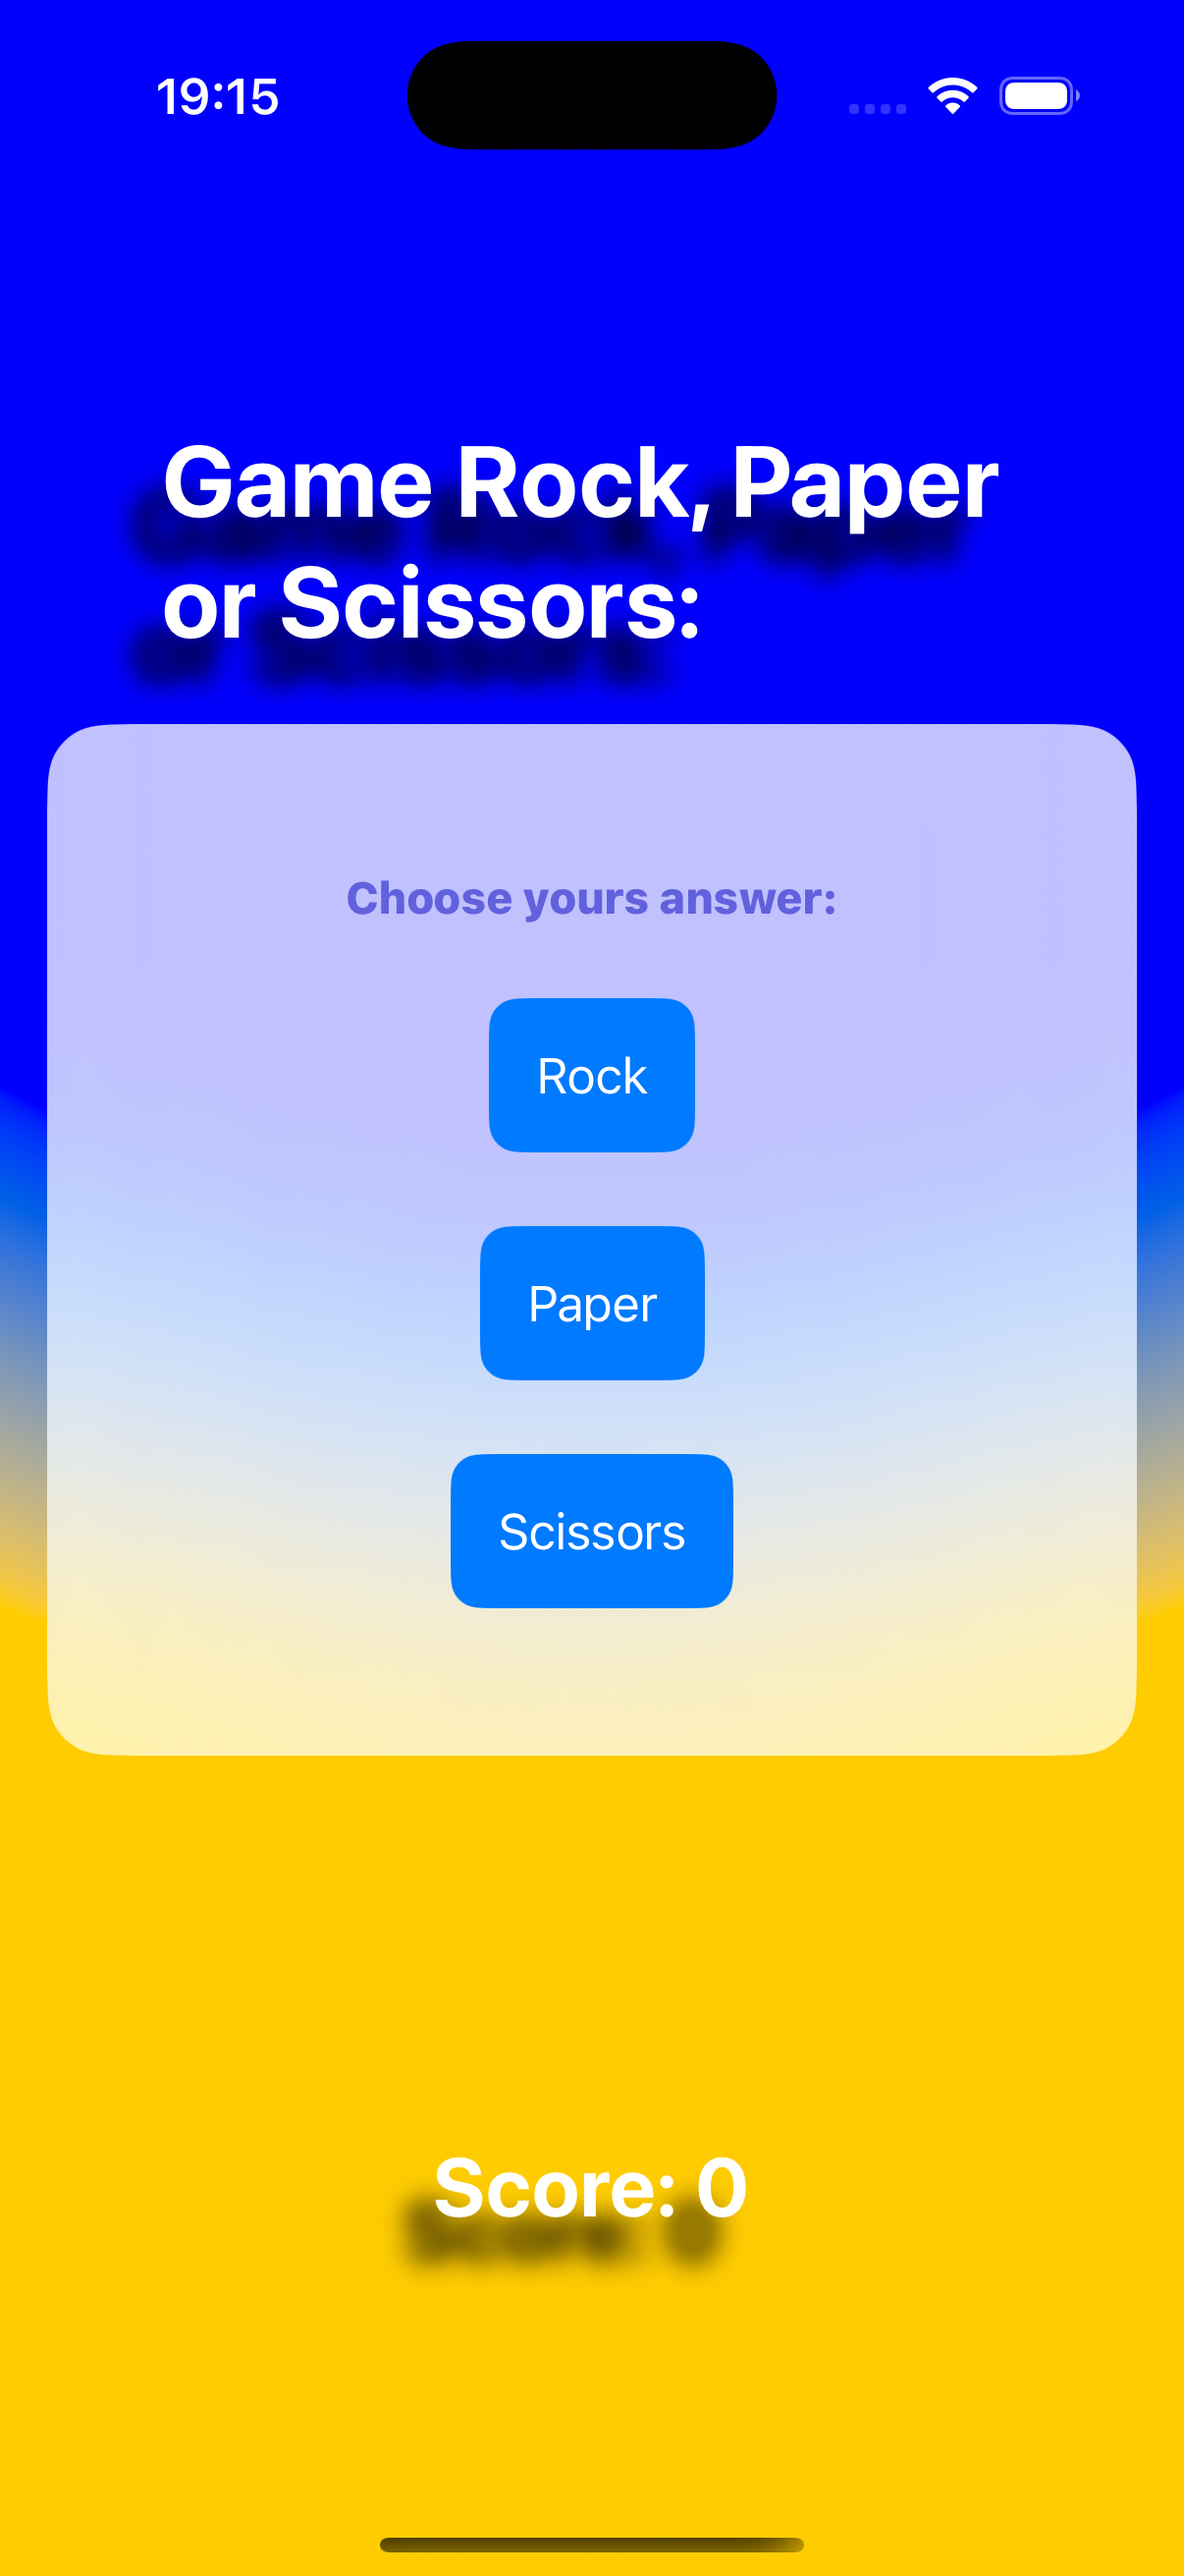
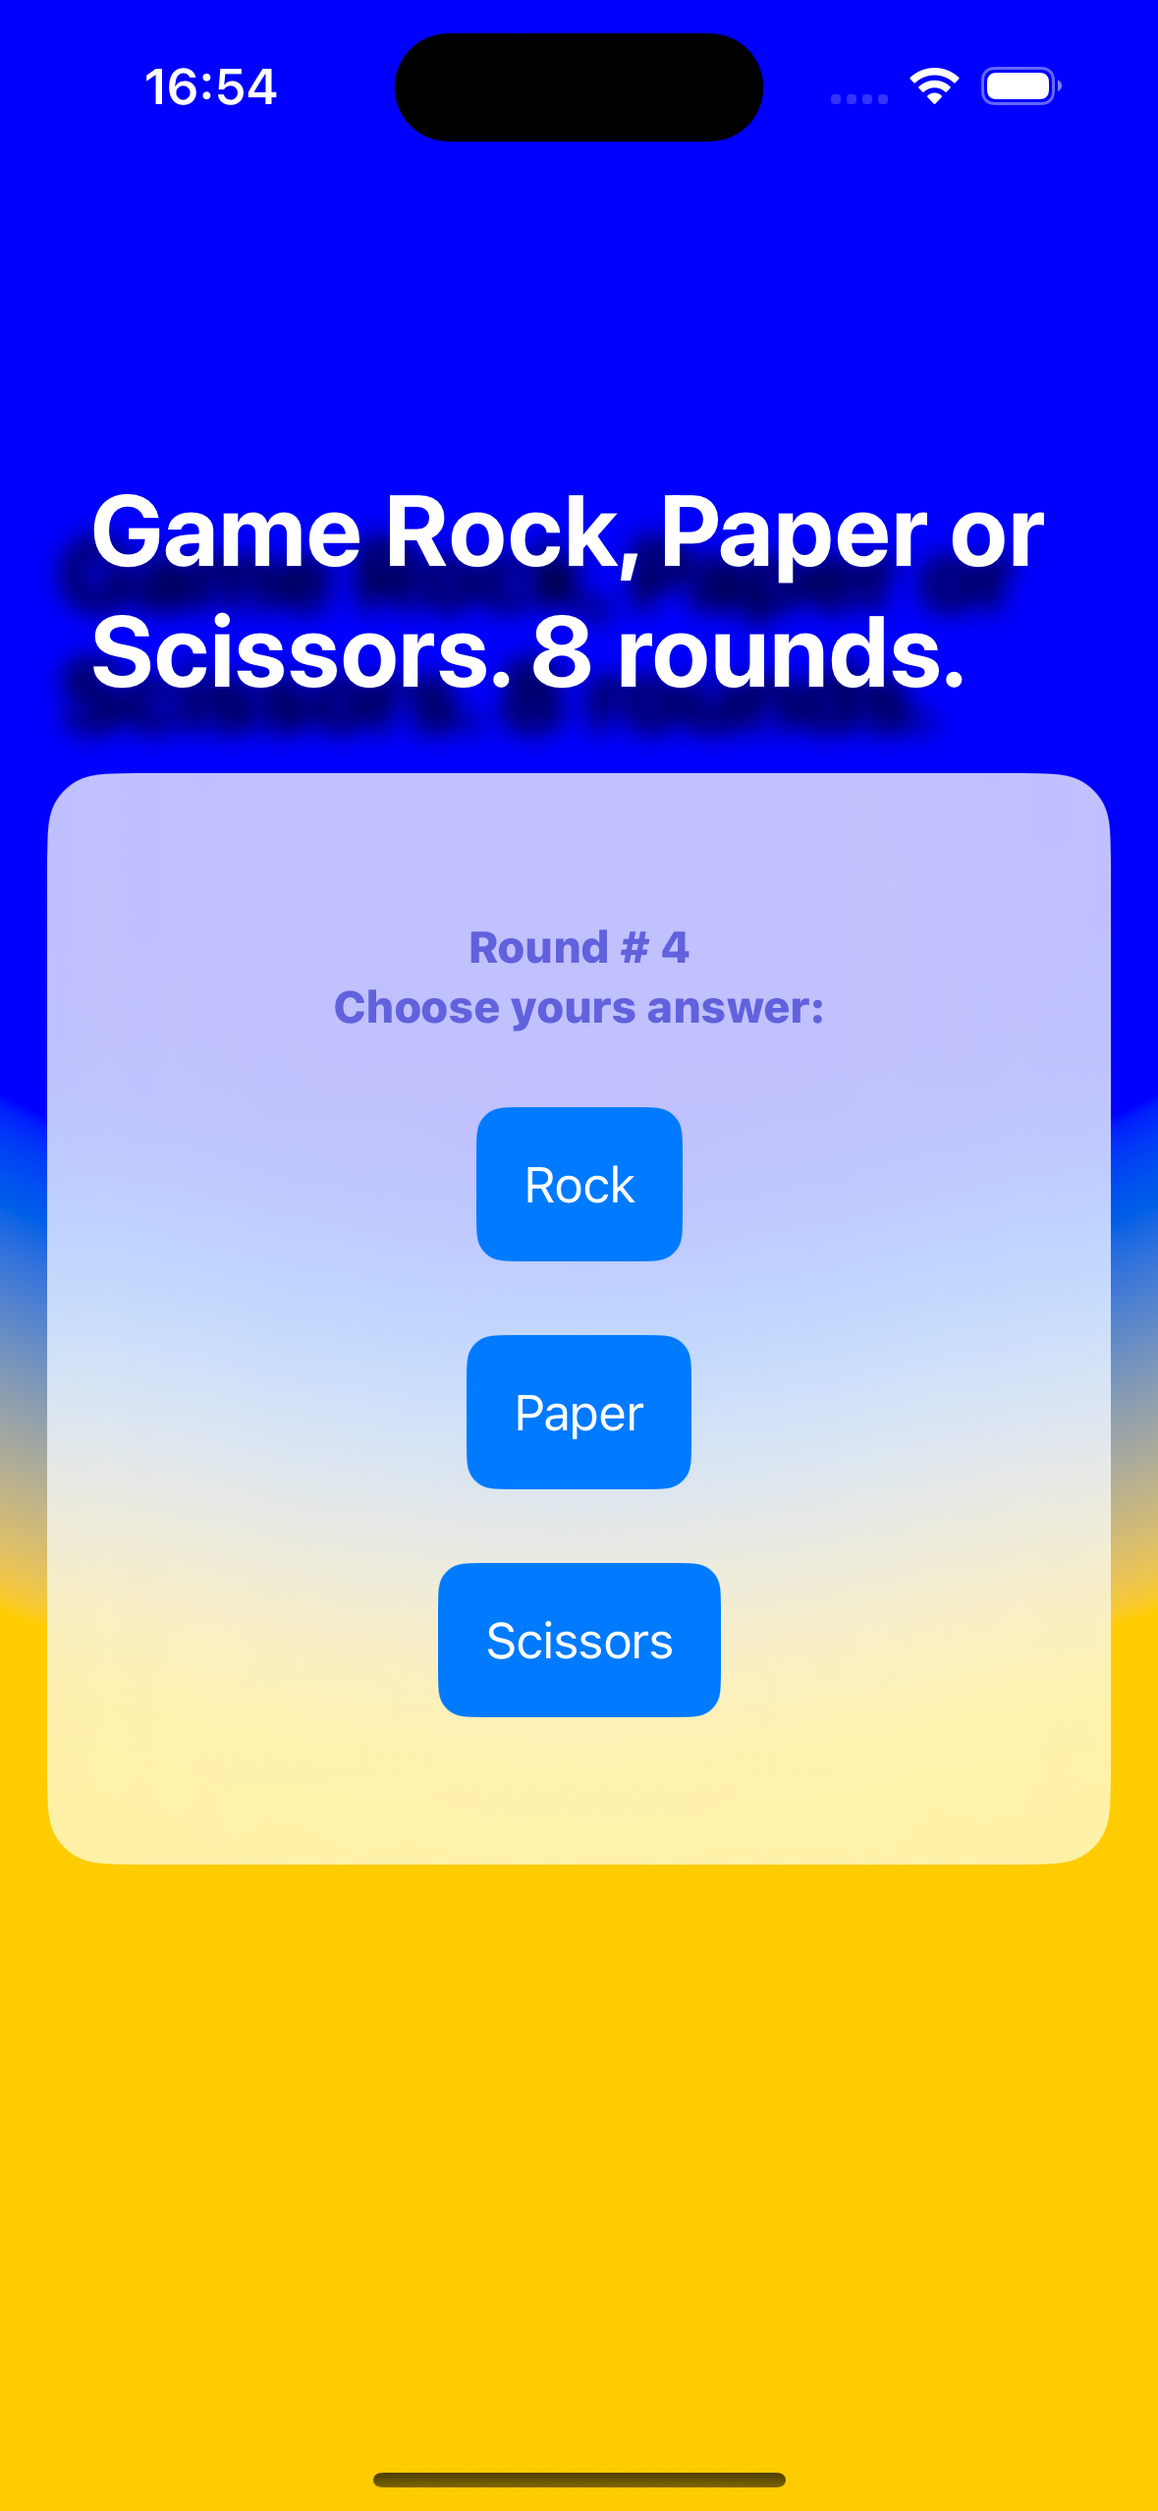
025 add: full logic for the result comparisont; add proper text prompts; count rounds ammount; restart logic; add info to README

diff --git a/025 Challenge Rock Paper Scissors/025 Challenge Rock Paper Scissors/ContentView.swift b/025 Challenge Rock Paper Scissors/025 Challenge Rock Paper Scissors/ContentView.swift
@@ -28,8 +28,12 @@ struct CustomButtonStyle: ButtonStyle {
 
 struct ContentView: View {
     @State private var varAnswer = ["Rock", "Paper", "Scissors"]
-    @State private var scoreAmount = 0
     @State private var pcAnswer = Int.random(in: 0...2)
+    
+    @State private var scoreAmount = 0
+    @State private var gamesAmount = 1
+    @State private var showingScore = false
+    @State private var scoreTitle = ""
     
     var body: some View {
         ZStack {
@@ -41,13 +45,16 @@ struct ContentView: View {
                 .ignoresSafeArea()
             VStack {
                 Spacer()
-                Text("Game Rock, Paper or Scissors:")
+                Text("Game Rock, Paper or Scissors. 8 rounds.")
                     .font(.largeTitle.weight(.bold))
                     .foregroundStyle(.white)
                     .shadow(color: .black.opacity(0.99), radius: 4.5, x: -10, y: 15)
                 VStack(spacing: 25) {
                     VStack {
-                        Text("PC answer is: \(varAnswer[pcAnswer])" )
+                        //Text("PC answer is: \(varAnswer[pcAnswer])" )
+                        Text("Round # \(gamesAmount)")
+                            .foregroundStyle(.secondary)
+                            .font(.subheadline.weight(.heavy))
                         Text("Choose yours answer:")
                             .foregroundStyle(.secondary)
                             .font(.subheadline.weight(.heavy))
@@ -75,16 +82,31 @@ struct ContentView: View {
                 
                 Spacer()
                 Spacer()
+                /*
                 Text("Score: \(scoreAmount)")
                     .foregroundStyle(.white)
                     .font(/*@START_MENU_TOKEN@*/.title/*@END_MENU_TOKEN@*/.bold())
                     .shadow(color: .black.opacity(0.99), radius: 4.5, x: -10, y: 15)
                 Spacer()
+                */
             }
             .padding()
             
             
             
+        }
+        .alert(scoreTitle, isPresented: $showingScore) {
+            if gamesAmount > 8 {
+                Button("Restart", action: newGame)
+            } else {
+                Button("Continue", action: askQuestion)
+            }
+        } message: {
+            if gamesAmount > 8 {
+                Text("Your score is \(scoreAmount). You reach 8 games. Restart the game to continue.")
+            } else {
+                //Text("Your score is \(scoreAmount)")
+            }
         }
         
         
@@ -92,37 +114,66 @@ struct ContentView: View {
 
 
     func answerTap(_ userAnswer: String) {
+        gamesAmount += 1
         switch(varAnswer[pcAnswer], userAnswer) {
             case ("Rock", "Rock"):
+                scoreTitle = "Draw"
                 scoreAmount = scoreAmount + 0
+                showingScore = true
                 break
             case ("Paper", "Paper"):
+                scoreTitle = "Draw"
                 scoreAmount = scoreAmount + 0
+                showingScore = true
                 break
             case ("Scissors", "Scissors"):
+                scoreTitle = "Draw"
                 scoreAmount = scoreAmount + 0
+                showingScore = true
                 break
             case ("Rock", "Paper"):
-                scoreAmount = scoreAmount - 1
+                scoreTitle = "Win. You choose Papre. Compuret choose \(varAnswer[pcAnswer])."
+                scoreAmount = scoreAmount + 1
+                showingScore = true
                 break
             case ("Rock", "Scissors"):
+                scoreTitle = "Win. You choose Scissors. Compuret choose \(varAnswer[pcAnswer])."
                 scoreAmount = scoreAmount + 1
+                showingScore = true
                 break
             case ("Paper", "Rock"):
+                scoreTitle = "Loss. You choose Rock. Compuret choose \(varAnswer[pcAnswer])."
                 scoreAmount = scoreAmount - 1
+                showingScore = true
                 break
             case ("Scissors", "Rock"):
+                scoreTitle = "Win. You choose Rock. Compuret choose \(varAnswer[pcAnswer])."
                 scoreAmount = scoreAmount + 1
+                showingScore = true
                 break
             case ("Scissors", "Paper"):
+                scoreTitle = "Loss. You choose Paper. Compuret choose \(varAnswer[pcAnswer])."
                 scoreAmount = scoreAmount - 1
+                showingScore = true
                 break
-            case ("Scissors", "Rock"):
+            case ("Paper", "Scissors"):
+                scoreTitle = "Win. You choose Scissors. Compuret choose \(varAnswer[pcAnswer])."
                 scoreAmount = scoreAmount + 1
+                showingScore = true
                 break
             default:
                 break
         }
+    }
+    
+    func askQuestion() {
+        pcAnswer = Int.random(in: 0...2)
+    }
+    
+    func newGame() {
+        askQuestion()
+        gamesAmount = 1
+        scoreAmount = 0
     }
 
 }

diff --git a/025 Challenge Rock Paper Scissors/README.md b/025 Challenge Rock Paper Scissors/README.md
@@ -13,4 +13,7 @@
 <div style="text-align: center;">
 	<img src="for_readme/image001.png" alt="image of the app ui" width="35%">
 </div>
+<div style="text-align: center;">
+	<img src="for_readme/image002.png" alt="image of the app ui" width="35%">
+</div>
 
